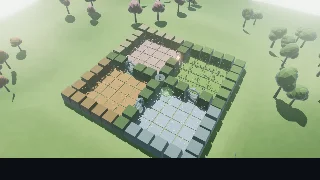
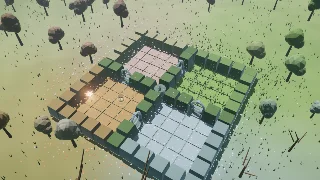
Refresh environment previews from current scenes

diff --git a/frontend/scripts/posters.ts b/frontend/scripts/posters.ts
@@ -14,7 +14,7 @@ const VIEW_H = 720;
 const POSTER_W = 320;
 const CAPTURE_AT_STEP = Number(process.argv[5] ?? '200000');
 const SETTLE_MS = 3000;
-const READY_TIMEOUT_MS = 30000;
+const READY_TIMEOUT_MS = 120000;
 
 const chromeBin = process.env['CHROME'] ?? '/Applications/Google Chrome.app/Contents/MacOS/Google Chrome';
 const profileDir = join(tmpdir(), 'oak-posters-chrome');
@@ -39,17 +39,33 @@ async function connect(): Promise<CdpClient> {
           ws.onopen = res;
           ws.onerror = rej;
         });
-        const pending = new Map<number, (v: any) => void>();
+        const pending = new Map<number, { resolve(value: any): void; reject(error: Error): void }>();
         let nextId = 1;
         ws.onmessage = (event) => {
           const msg = JSON.parse(String(event.data));
-          if (msg.id !== undefined) pending.get(msg.id)?.(msg);
+          if (msg.id !== undefined) {
+            const request = pending.get(msg.id);
+            pending.delete(msg.id);
+            if (msg.error !== undefined) request?.reject(new Error(msg.error.message));
+            else request?.resolve(msg);
+          }
+        };
+        ws.onclose = () => {
+          for (const request of pending.values()) request.reject(new Error('capture browser disconnected'));
+          pending.clear();
         };
         return {
           send: (method, params = {}) =>
-            new Promise((res) => {
+            new Promise((resolve, reject) => {
               const id = nextId++;
-              pending.set(id, res);
+              const timer = setTimeout(() => {
+                pending.delete(id);
+                reject(new Error(`${method} timed out`));
+              }, READY_TIMEOUT_MS);
+              pending.set(id, {
+                resolve: (value) => { clearTimeout(timer); resolve(value); },
+                reject: (error) => { clearTimeout(timer); reject(error); },
+              });
               ws.send(JSON.stringify({ id, method, params }));
             }),
           close: () => ws.close(),
@@ -77,10 +93,19 @@ async function waitForStage(cdp: CdpClient, envName: string): Promise<void> {
   for (;;) {
     const ready = await evaluate(
       cdp,
-      `(() => {
+      `(async () => {
+        const { stageMetaSnapshot } = await import('/src/theater/controller.ts');
+        const { currentPosition, setTransport } = await import('/src/playback/store.ts');
+        const meta = stageMetaSnapshot();
+        if (meta.status === 'error') throw new Error(meta.noteDetail ?? meta.note);
         const canvas = document.querySelector('canvas.theater-canvas');
         const tile = [...document.querySelectorAll('button')].find((el) => el.title === ${JSON.stringify('Choose an environment')});
-        return canvas !== null && tile !== undefined && tile.textContent.includes(${JSON.stringify(envName)});
+        const ready = canvas !== null && canvas.width > 0 && meta.status === 'ready'
+          && meta.envName === ${JSON.stringify(envName)} && meta.loadedSteps >= ${CAPTURE_AT_STEP}
+          && currentPosition() >= ${CAPTURE_AT_STEP}
+          && tile !== undefined && tile.textContent.includes(${JSON.stringify(envName)});
+        if (ready) setTransport({ playing: false });
+        return ready;
       })()`,
     ).catch(() => false);
     if (ready === true) return;
@@ -89,28 +114,31 @@ async function waitForStage(cdp: CdpClient, envName: string): Promise<void> {
   }
 }
 
-const chrome = Bun.spawn(
-  [
-    chromeBin,
-    '--headless=new',
-    `--user-data-dir=${profileDir}`,
-    `--remote-debugging-port=${CDP_PORT}`,
-    '--no-first-run',
-    '--no-default-browser-check',
-    `--window-size=${VIEW_W},${VIEW_H}`,
-    '--force-device-scale-factor=1',
-    '--hide-scrollbars',
-    'about:blank',
-  ],
-  { stdout: 'ignore', stderr: 'ignore' },
-);
+for (const envId of ENV_IDS) {
+  if (only !== '' && envId !== only) continue;
+  const chrome = Bun.spawn(
+    [
+      chromeBin,
+      '--headless=new',
+      `--user-data-dir=${profileDir}`,
+      `--remote-debugging-port=${CDP_PORT}`,
+      '--no-first-run',
+      '--no-default-browser-check',
+      `--window-size=${VIEW_W},${VIEW_H}`,
+      '--force-device-scale-factor=1',
+      '--hide-scrollbars',
+      'about:blank',
+    ],
+    { stdout: 'ignore', stderr: 'ignore' },
+  );
 
-try {
-  const cdp = await connect();
-  await cdp.send('Page.enable');
-  await mkdir(outDir, { recursive: true });
-  for (const envId of ENV_IDS) {
-    if (only !== '' && envId !== only) continue;
+  try {
+    const cdp = await connect();
+    await cdp.send('Page.enable');
+    await cdp.send('Emulation.setDeviceMetricsOverride', {
+      width: VIEW_W, height: VIEW_H, deviceScaleFactor: 1, mobile: false,
+    });
+    await mkdir(outDir, { recursive: true });
     const info = SCENES[envId];
     const runQuery = run !== '' ? `run=${run}&` : '';
     await cdp.send('Page.navigate', { url: `${origin}/?${runQuery}env=${envId}&at=${CAPTURE_AT_STEP}` });
@@ -133,9 +161,10 @@ try {
     const file = resolve(outDir, `${info.slug}.webp`);
     await Bun.write(file, Buffer.from(shot.result.data, 'base64'));
     console.log(`${info.slug}.webp`);
+    cdp.close();
+  } finally {
+    chrome.kill();
+    await chrome.exited;
+    await rm(profileDir, { recursive: true, force: true });
   }
-  cdp.close();
-} finally {
-  chrome.kill();
-  await rm(profileDir, { recursive: true, force: true });
 }
